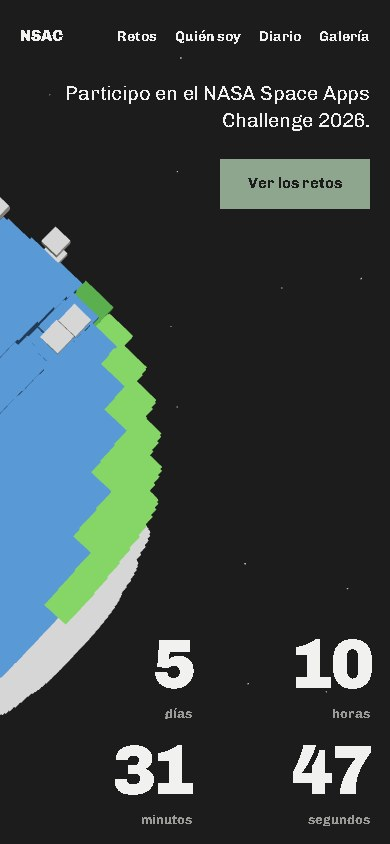
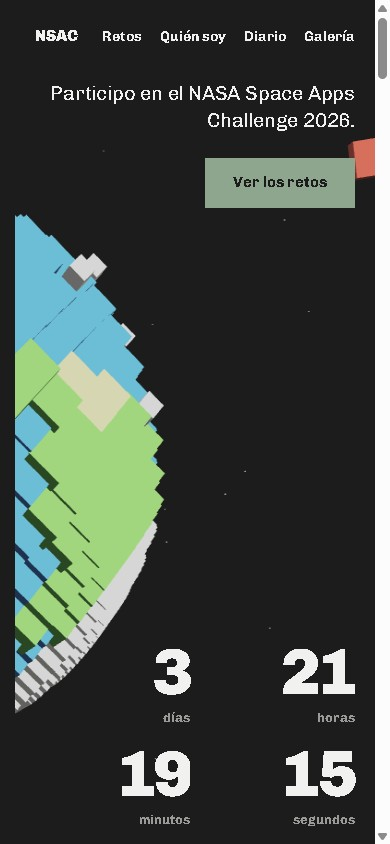
planeta: pose de las 11:30 adelantada a las 9:00 para el aterrizaje
YAW_LEAD suma 2.5 h de giro diario (37.5°) al yaw, asi en T0 el planeta
muestra la encuadrada de Bolivia que antes daba a las 11:30. OG y
descriptions regeneradas.

Generated with [Devin](https://devin.ai)

diff --git a/index.html b/index.html
@@ -4,7 +4,7 @@
 <meta charset="utf-8">
 <meta name="viewport" content="width=device-width, initial-scale=1.0">
 <title>NSAC — NASA Space Apps Challenge 2026 | Alejandro Sosa</title>
-<meta name="description" content="Participo en el NASA Space Apps Challenge 2026 desde Santa Cruz de la Sierra. Faltan 5 días y 10 horas para el inicio: sábado 14 de noviembre, 9:00 en Bolivia. Cuenta regresiva en vivo, los 14 retos oficiales y el diario del hackathon.">
+<meta name="description" content="Participo en el NASA Space Apps Challenge 2026 desde Santa Cruz de la Sierra. Faltan 3 días y 21 horas para el inicio: sábado 14 de noviembre, 9:00 en Bolivia. Cuenta regresiva en vivo, los 14 retos oficiales y el diario del hackathon.">
 <meta name="author" content="Alejandro Sosa Briceño">
 <meta name="robots" content="index, follow, max-image-preview:large">
 <link rel="canonical" href="https://asosab.github.io/NSAC/">
@@ -13,7 +13,7 @@
 <meta property="og:type" content="website">
 <meta property="og:site_name" content="NSAC — NASA Space Apps 2026">
 <meta property="og:title" content="NSAC — NASA Space Apps Challenge 2026">
-<meta property="og:description" content="Faltan 5 días y 10 horas para el hackathon más grande del mundo: empieza el sábado 14 de noviembre a las 9:00 (hora de Bolivia). Cuenta regresiva en vivo, los 14 retos oficiales y el diario del evento.">
+<meta property="og:description" content="Faltan 3 días y 21 horas para el hackathon más grande del mundo: empieza el sábado 14 de noviembre a las 9:00 (hora de Bolivia). Cuenta regresiva en vivo, los 14 retos oficiales y el diario del evento.">
 <meta property="og:url" content="https://asosab.github.io/NSAC/">
 <meta property="og:image" content="https://asosab.github.io/NSAC/assets/img/og-cover.jpg">
 <meta property="og:image:width" content="390">
@@ -26,7 +26,7 @@
 <meta name="twitter:site" content="@asosab">
 <meta name="twitter:creator" content="@asosab">
 <meta name="twitter:title" content="NSAC — NASA Space Apps Challenge 2026">
-<meta name="twitter:description" content="Faltan 5 días y 10 horas: empieza el sábado 14 a las 9:00, hora de Bolivia. Cuenta regresiva en vivo, los 14 retos oficiales y el diario del hackathon.">
+<meta name="twitter:description" content="Faltan 3 días y 21 horas: empieza el sábado 14 a las 9:00, hora de Bolivia. Cuenta regresiva en vivo, los 14 retos oficiales y el diario del hackathon.">
 <meta name="twitter:image" content="https://asosab.github.io/NSAC/assets/img/og-cover.jpg">
 <meta name="twitter:image:alt" content="Planeta Tierra de bloques estilo Minecraft a la izquierda y cuenta regresiva gigante a la derecha.">
 

diff --git a/assets/js/planet.js b/assets/js/planet.js
@@ -369,6 +369,9 @@
      los 7 días de la cuenta) y el yaw queda anclado al instante del
      aterrizaje: en T0 vale phiLand, con Bolivia arriba al centro */
   var phiLand = 4.96;
+  /* adelanto de fase: la pose que el planeta muestra a las 11:30 se corre
+     a las 9:00 (T0); son 2.5 h de giro diario = 37.5° */
+  var YAW_LEAD = Math.PI * 2 * 2.5 / 24;
   function wrapAngle(x) {
     x = (x + Math.PI) % (Math.PI * 2);
     if (x < 0) x += Math.PI * 2;
@@ -457,10 +460,10 @@
        cuadro; el eje queda fijo a ~45° y el mundo gira SOBRE él */
     tilt.position.x = -1.15 + sp * 0.25;
     tilt.position.y = -0.35 + sp * 0.45 + (reduceMotion ? 0 : Math.sin(t * 0.4) * 0.02);
-    /* yaw = phiLand - 2π·(días hasta T0): una vuelta por día, y en el
-       instante del aterrizaje Bolivia queda exactamente en phiLand;
-       la demo converge a esa pose mientras dura */
-    var timeYaw = phiLand - Math.PI * 2 * (T0 - now) / 864e5;
+    /* yaw = phiLand + YAW_LEAD - 2π·(días hasta T0): una vuelta por día,
+       y en el instante del aterrizaje el planeta muestra la pose de las
+       11:30; la demo converge a esa pose mientras dura */
+    var timeYaw = phiLand - Math.PI * 2 * (T0 - now) / 864e5 + YAW_LEAD;
     /* giro libre: avanza por reloj real (sirve también con reduce-motion);
        al frenar, vuelve al múltiplo de 2π más cercano = yaw del reloj */
     if (spinning) {
@@ -472,7 +475,7 @@
       if (spinStop.t >= 1) { spin = spinStop.b; spinStop = null; }
     }
     var prog = demo === "approach" ? easeOut(Math.min(demoT, 1)) : demo === null ? 0 : 1;
-    world.rotation.y = timeYaw + sp * 0.8 + spin + prog * wrapAngle(phiLand - timeYaw - sp * 0.8 - spin);
+    world.rotation.y = timeYaw + sp * 0.8 + spin + prog * wrapAngle(phiLand + YAW_LEAD - timeYaw - sp * 0.8 - spin);
     tilt.updateMatrixWorld();
 
     /* los extremos de las trayectorias siguen a Bolivia cada frame; el
